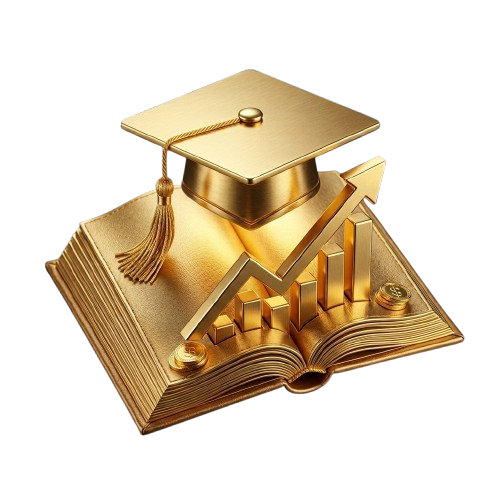
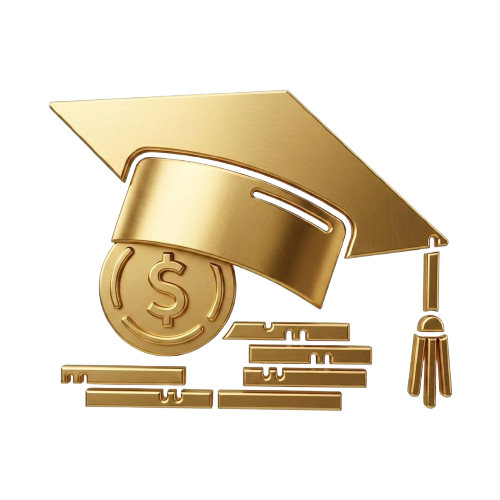
iconos logros perfil logros dashboard

diff --git a/fv-frontend/src/app/layouts/main-layout/main-layout.ts b/fv-frontend/src/app/layouts/main-layout/main-layout.ts
@@ -14,13 +14,13 @@ export class MainLayout {
   sidebarOpen = signal(true);
 
   navItems = [
-    { path: '/dashboard',    icon: '⚡', label: 'Dashboard'   },
+    { path: '/dashboard',    icon: 'dashboard.png', label: 'Dashboard'   },
     { path: '/finances',     icon: 'billetera-premium.png',  label: 'Finanzas'    },
     { path: '/academy',      icon: 'academia.png', label: 'Academia' },
     { path: '/quizzes',      icon: '🎯', label: 'Quizzes'     },
     { path: '/simulator',    icon: 'simulador.png', label: 'Simulador'   },
-    { path: '/achievements', icon: '🏆', label: 'Logros'      },
-    { path: '/profile',      icon: '👤', label: 'Perfil'      },
+    { path: '/achievements', icon: 'logro.png', label: 'Logros'      },
+    { path: '/profile',      icon: 'perfil.png', label: 'Perfil'      },
   ];
 
   constructor(